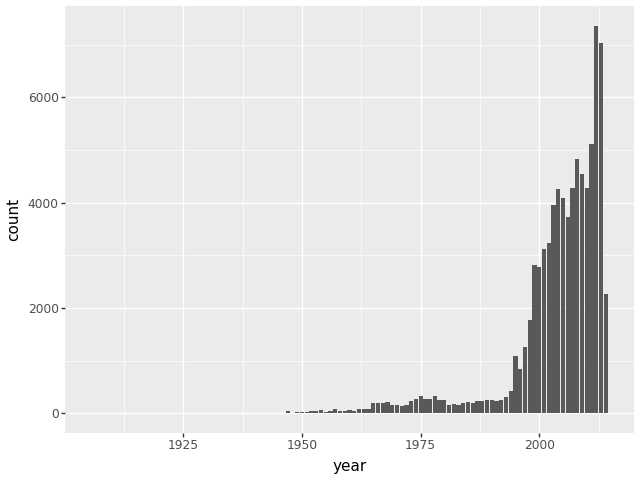
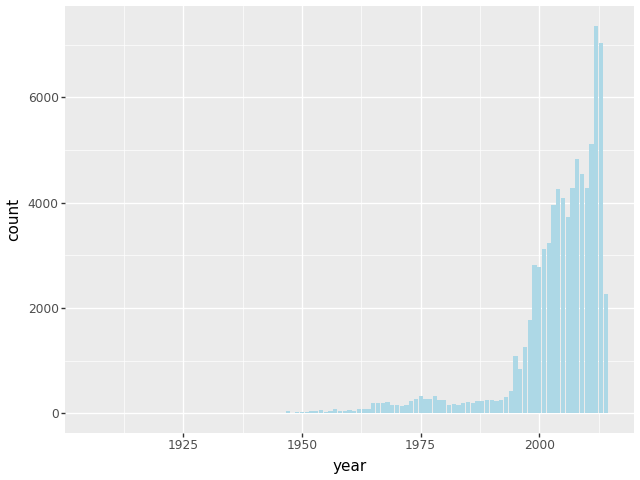
regression plots

Changed region(s): [[0.5, 0.0625, 0.9688, 0.875]]

diff --git a/miniprojects/UFOs/miniprojectUFO.py b/miniprojects/UFOs/miniprojectUFO.py
@@ -1,3 +1,16 @@
+# questions
+# when talking about modeling data via inferential statistics, does that mean stuff like regression and class...
+
+# TODOS
+# make more regression plots 
+# make more seaborn
+# make classification (we've already made some regression)
+# make more than one plot (draw the plot in another window with the same data visualized) for the same function
+# Can you do things like "mean" on a column with names and such? 
+
+
+
+# ----------------------------------------
 # When answering each question, make summary statistics on each.
 
 # Summary statistics is a part of descriptive statistics that summarizes and provides the gist of
@@ -223,10 +236,6 @@ def trimmed_mean_for_gb():
 # print(df[df["duration (seconds)"] < 9000.0]["duration (seconds)"].apply(log))
 
 
-########## Can you do things like mean on a column like country? ##########
-
-########## trend time per sighting ##########
-
 ########## trend ufo sightings over datetime and date posted ##########
 # Index(['datetime', 'city', 'state', 'country', 'shape', 'duration (seconds)',
 #         'duration (hours/min)', 'comments', 'date posted', 'latitude',
@@ -248,17 +257,17 @@ def trend_ufo_sightings_over_datetime():
     df["date posted month"] = df["date posted"].dt.month
     df["date posted day"]   = df["date posted"].dt.day
 
-    print(df["datetime"].dt.year.value_counts().sort_index()) # takes the datetime column and then counts the values by year and then sorts them by index. dt is a datetime accessor built into pandas
-    print(df["date posted"].dt.year.value_counts().sort_index())
+    # print(df["datetime"].dt.year.value_counts().sort_index()) # takes the datetime column and then counts the values by year and then sorts them by index. dt is a datetime accessor built into pandas
+    # print(df["date posted"].dt.year.value_counts().sort_index())
 
-    #print the earliest and latest sightings
-    print("Earliest sighting:", df["datetime"].min())
-    print("Latest sighting:", df["datetime"].max())
+    # #print the earliest and latest sightings
+    # print("Earliest sighting:", df["datetime"].min())
+    # print("Latest sighting:", df["datetime"].max())
 
     # matplotlib
-    # df["datetime"].dt.year.value_counts().sort_index().plot()
-    # df["date posted"].dt.year.value_counts().sort_index().plot()
-    # plt.show()
+    df["datetime"].dt.year.value_counts().sort_index().plot()
+    df["date posted"].dt.year.value_counts().sort_index().plot()
+    plt.show()
 
     # pandas
 
@@ -267,20 +276,15 @@ def trend_ufo_sightings_over_datetime():
     # plt.show()
 
     # plotnine
-    p9plot = p9.ggplot(df, p9.aes(x="year")) + p9.geom_bar()
-    # print(p9plot)
+    # p9plot = p9.ggplot(df, p9.aes(x="year")) + p9.geom_bar(fill="lightblue")
+    # # print(p9plot)
 
-    # options.figure_size = (8, 6) #adjust as needed.
+    # options.figure_size = (8, 6)
     # print("Drawing plot...")
     # p9plot.draw()
     # print("Plot drawn.")
     # p9plot.save("ufo_sightings_by_year.png")
 
-########## when were the dates posted compared to the datetime of the sighting ##########
-
-########## compare more than one plots to each other ##########
-
-########## years vs seconds ##########
 
 ########## what are the most common UFO shapes per country? ##########
 def country_trend_to_ufo_shape():
@@ -315,8 +319,109 @@ def comments_over_time():
     print("\n")
 
 
+
+
+
+# YES Continue looking at pandas methods for descriptive statistics and data handling: aggregation using .groupby, handling missing values using .fillna/.isna/.dropna
+# YES Find a couple of features in the dataset that you want to examine
+# Identify whether a regression or classification best answers your question
+# Try to model the features using inferential statistics
+# YES Evaluate how well your model explains the features
+########## Is there coming more sighting in the fellowing years in our dataset
+
+# scikit-learn is imported by the name sklearn
+import sklearn.linear_model
+import sklearn.ensemble
+import sklearn.metrics
+
+## Reshape your data either using array.reshape(-1, 1) if your data has a single feature or array.reshape(1, -1) if it contains a single sample.
+# X:  80332
+# y:  80332
+# array.reshape(-1, 1): Reshapes a single feature into a column vector.
+# array.reshape(1, -1): Reshapes a single sample into a row vector.
+def split_data(x, y):
+   X = df[x].values.reshape(-1, 1)
+  #  y = np.asarray(df[y].value)
+   y = df[y].values
+  #  print("X: ", X)
+  #  print("y: ", len(y))
+   X_train, X_test, y_train, y_test = sklearn.model_selection.train_test_split(X, y, test_size=0.1)
+   return X_train, X_test, y_train, y_test
+
+# def split_data():
+#     df["datetime"] = pd.to_datetime(df["datetime"], errors="coerce")
+#     df["date posted"] = pd.to_datetime(df["date posted"], errors="coerce")
+#     df.dropna(subset=["datetime", "date posted"], inplace=True)
+    
+#     X = df["datetime"].map(pd.Timestamp.toordinal).values.reshape(-1, 1)
+#     y = df["date posted"].map(pd.Timestamp.toordinal).values
+#     print("X: ", X)
+#     print("y: ", y)
+#     X_train, X_test, y_train, y_test = sklearn.model_selection.train_test_split(X, y, test_size=0.1)
+#     return X_train, X_test, y_train, y_test
+
+def single_feature_linear_regression(x, y):
+    X_train, X_test, y_train, y_test = split_data(x, y)
+    model = sklearn.linear_model.LinearRegression()
+    model.fit(X_train, y_train)
+    preds = model.predict(X_test)
+
+    return sklearn.metrics.r2_score(y_test, preds)
+
+
+def more_sightings_in_the_following_years_with_regression():
+  trend_ufo_sightings_over_datetime()
+  # yearData = df["datetime"].dt.year.value_counts().sort_index()
+  # y = df["date posted"].dt.year.value_counts().sort_index()
+  single_feature_linear_regression("year", "date posted year")
+
+def sighting_over_datetime_plot():
+  trend_ufo_sightings_over_datetime()
+
+  yearly_counts = df["year"].value_counts().sort_index()
+
+  X = yearly_counts.index.values.reshape(-1, 1)
+  # print("idx_val: ", yearly_counts.index.values) # values is a numpy array
+  # print("just index: ", yearly_counts.index) # index is a tuple with 3 elements, values, type and name
+  y = yearly_counts.values
+
+  model = sklearn.linear_model.LinearRegression()
+  model.fit(X, y)
+  preds = model.predict(X)
+
+  r2_score = sklearn.metrics.r2_score(y, preds)
+  
+  plt.scatter(X, y, color='blue', label='Actual')
+  plt.plot(X, preds, color='red', linewidth=2, label='Predicted')
+  plt.xlabel("year")
+  plt.ylabel("number og sightings")
+  plt.title(f'Linear Regression: oirjgre')
+  plt.legend()
+  plt.ylim(0, 8000) # set the y-axis limits
+  plt.xlim(1900, 2020)
+  plt.text(1940, 7000, f"R^2 Score: {r2_score}")
+  plt.text(1940, 6000, f"coefficient: {model.coef_}")
+  plt.show()
+
+
 ########## are there trends in the comments which shows the same style / facets / words / descriptions of the ufos ##########
 
+########## ##########
+
+########## trend time per sighting ##########
+
+########## when were the dates posted compared to the datetime of the sighting ##########
+
+########## compare more than one plots to each other ##########
+
+########## years vs seconds ##########
+
+
+
+
+trend_ufo_sightings_over_datetime()
+
+# sighting_over_datetime_plot()
 
 # describe_dataset()
 
@@ -346,6 +451,9 @@ def comments_over_time():
 
 # country_trend_to_ufo_shape()
 
-trend_ufo_sightings_over_datetime()
+# trend_ufo_sightings_over_datetime()
 
 #comments_over_time()
+
+# more_sightings_in_the_following_years_with_regression()
+
